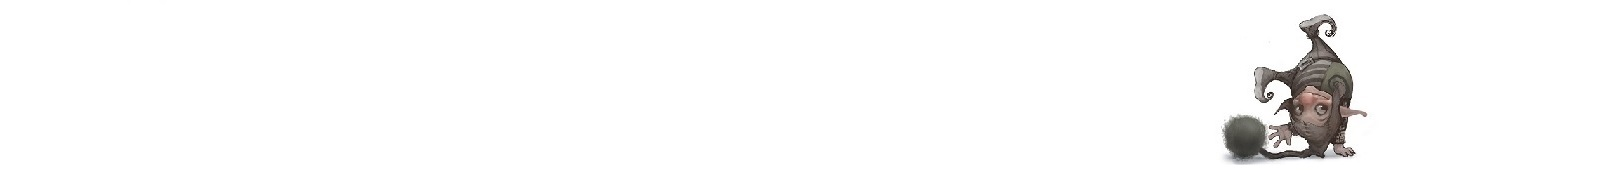
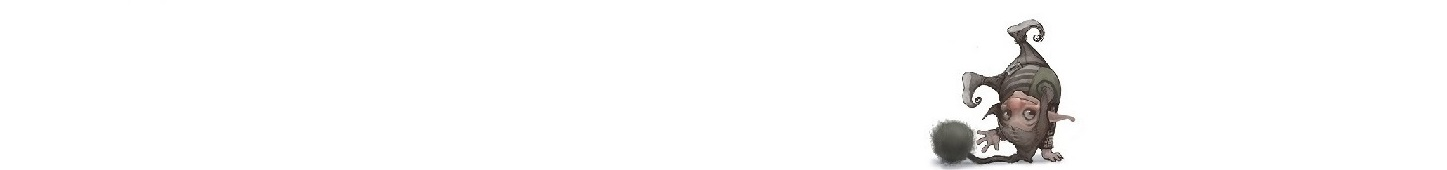
Add media queries for the contact section

Changed region(s): [[0.622, 0.0882, 0.8708, 1.0]]

diff --git a/assets/css/style.css b/assets/css/style.css
@@ -23,9 +23,8 @@ body{
     font-size: 25px;
     font-family: 'Oswald', sans-serif;
     background-image: url("../images/vasen.jpeg");
-    background-size: 30%;
-   background-repeat: no-repeat;
-  
+    background-size: 40%;
+    background-repeat: no-repeat;   
 }
 
 
@@ -69,7 +68,7 @@ body{
           background-image: url("/assets/images/ww1.jpeg");
           background-size: cover;
           background-position: center;
-          height: 1200px;
+          height: 950px;
           max-width: 100%;
          
           
@@ -87,13 +86,13 @@ body{
               transform: scale(0.8);
           }
           to{
-              transform: scale(1.0pyt);
+              transform: scale(1.0);
           }
           
       }
       #welcome h1 {
         text-align: center;
-        padding-top: 150px;
+        padding-top: 120px;
         font-size: 300%;
         color: white;
         
@@ -113,7 +112,7 @@ body{
 #books div {
   color: #A43F2D;
   text-align: center;
-  padding: 5%;
+  padding: 0;
 }
 
 
@@ -150,6 +149,7 @@ body{
     padding-top: 0;
     display: flex;
     justify-content: space-around;
+    padding-bottom: 60px;
  }
 
  #left-about{
@@ -173,7 +173,7 @@ body{
  }
 
  .right-about-text, .center-about-text{
-    margin-top: 80px;
+    margin-top: 120px;
     width: 80%;
     /*float: left;*/
     line-height: 20px;
@@ -238,7 +238,7 @@ body{
     padding: 0 10%;
     font-size: 100%;
   }
-  
+
   footer > p {
   
     font-size: 50%;
@@ -293,7 +293,7 @@ body{
   /* contact form*/
  
  .contact-form {
-  margin: 150px 10% 0 0px;
+  margin: 10% 10% 0 0px;
   color: #fff;
   background-color: rgba(60, 60, 60, 0.6);
   max-width: 400px;
@@ -341,6 +341,7 @@ body{
   background-color: rgba(60, 60, 60, 0.1);
   margin-top: 10px;
   border: 1px solid white;
+  width: 100%;
 }
 
 
@@ -355,8 +356,8 @@ border-radius: 7px;
 }
 
 
-/* For screens sizes from 1024px wide and down */
-@media screen and (max-width: 1024px){
+/* For screens sizes from 1200px wide and down */
+@media screen and (max-width: 1200px){
   .header-background{
     background-image: none;     
 }
@@ -366,8 +367,8 @@ border-radius: 7px;
 }
 
 #welcome h1 {
-  padding-top: 60px;
-  font-size: 100%;
+  font-size: 120%;
+  padding-top: 60px; 
 }
 
 .header-background{
@@ -387,11 +388,26 @@ padding: 0 60px 0 60px;
 /* For screens sizes from 950px wide and down */
 @media screen and (max-width: 950px){
 
+  #welcome{
+    height: 500px;
+  }
+
+  #welcome h1 {
+    font-size: 100%;
+    padding-top: 50px; 
+  }
+
   
   #books{
     flex-direction: column;
     align-items: center;
     justify-content: center;
+    text-align: center;
+
+    }
+
+    #books div{
+      padding: 2%;
     }
 
     .lyktgubben, .bestar, .vasenivartid{
@@ -401,6 +417,9 @@ padding: 0 60px 0 60px;
   #about{
   flex-direction: column;
   margin: 1%;
+  justify-content: center;
+  align-items: center;
+  padding: 0;
   }
   
   #center-about, #right-about{  
@@ -411,10 +430,13 @@ padding: 0 60px 0 60px;
 
  #left-about{
   width: 100%;
+  margin-bottom: 5%;
  }
 
  .left-about-text, .center-about-text, .right-about-text{
   text-align: center;
+  margin: 0;
+  padding: 0;
  }
 
   #circle-containe{
@@ -443,9 +465,21 @@ nav li {
 padding: 0 20px 0 20px;
 }
 
+#books h4{
+  padding-top: 0;
+}
+
 #photo{
   column-count: 1;
 }
+
+.contact-form{
+  width: 70%;
+}
+
+
+
+
 
 footer > a{
   padding: 0 8%;
@@ -474,6 +508,7 @@ footer > a{
     padding: 0 5%;
   }
 
+
   }
 
 
@@ -482,7 +517,7 @@ footer > a{
   /* For screens sizes from 380 wide and down */
 @media screen and (max-width: 380px){
   #welcome{
-    height: 200x;
+    height: 200px;
   }
   
    

diff --git a/index.html b/index.html
@@ -46,7 +46,7 @@
     
     <div class="lyktgubben">
         <img src="./assets/images/lyktgubben.jpeg"> 
-        <h4>Lyktgubben, skogsfrun och andra väsen</h4>   
+        <h4>Lyktgubben, skogsfrun och <br> och andra väsen</h4>   
     </div>
 
     <div class="bestar">
@@ -81,13 +81,13 @@
 
     <div id="center-about">
         <div class="center-about-text">
-            <h4>Tor Jäger is a freelance illustrator based in Stockholm. He has studied graphic design at the Mid Sweden University and Informative Illustration at Mälardalen University. He has long experience of varius illustration jobs for clients including the Swedish Energy Agency, Wahlströms förlag, Opal förlag and Berghs förlag. </h4>
+            <h4>Tor Jäger is a freelance illustrator based in Stockholm. He has studied graphic design at the Mid Sweden University and Informative Illustration at Mälardalen University. He has long experience of varius illustration jobs for clients including the Swedish Energy </h4>
             </div>
     </div>
 
     <div id="right-about">
         <div class="right-about-text">
-            <h4>He has done several book cover illustrations and written and illustrated three books for children and young adults together with his brother Jan Jäger.</h4>
+            <h4>Agency, Wahlströms publishing house, Opal publishing house and Berghs publishing house. He has done several book cover illustrations and written and illustrated three books for children and young adults together with his brother Jan Jäger.</h4>
             </div>
     
     </div>
@@ -103,6 +103,7 @@
             <a href="https://sv-se.facebook.com/vasenboken/" target="_blank" rel="noopener" aria-label="Find us on Facebook (link opens in a new tab)"><i class="fab fa-facebook"></i></a>
             <a href="https://www.instagram.com/torjager/" target="_blank" rel="noopener" aria-label="Find us on Instagram (link opens in a new tab)"><i class="fab fa-instagram"></i></a>
             <a href="https://se.linkedin.com/in/tor-j%C3%A4ger-81718170" target="_blank" rel="noopener" aria-label="Find us on Linkedin (link opens in a new tab)"><i class="fab fa-linkedin"></i></a>
+            <h4>+46 734237879 <i class="fas fa-phone"></i></h4>
             <br>
             <p>Copyright © Tor Jäger Illustration 2022</p>
         

diff --git a/gallery.html b/gallery.html
@@ -26,7 +26,7 @@
             <ul>
                 <li><a href="index.html" aria-label="Go to the top of the homepage">Home</a></li>
                 <li><a href="gallery.html" aria-label="Go to the Gallery section">Gallery</a></li>
-                <li><a href="#about" aria-label="Go to the About section">About</a></li>
+                <li><a href="index.html#about" aria-label="Go to the About section">About</a></li>
                 <li><a href="contact.html" aria-label="Go to the contact form">Contact</a></li>
             </ul>
         </nav>

diff --git a/contact.html b/contact.html
@@ -26,7 +26,7 @@
         <ul>
             <li><a href="index.html" aria-label="Go to the top of the homepage">Home</a></li>
             <li><a href="gallery.html" aria-label="Go to the Gallery section">Gallery</a></li>
-            <li><a href="#about" aria-label="Go to the About section">About</a></li>
+            <li><a href="index.html#about" aria-label="Go to the About section">About</a></li>
             <li><a href="contact.html" aria-label="Go to the contact form">Contact</a></li>
         </ul>
     </nav>

diff --git a/README.md b/README.md
@@ -1,108 +1,65 @@
-![CI logo](https://codeinstitute.s3.amazonaws.com/fullstack/ci_logo_small.png)
+![CI logo](./assets/images/ww1.jpeg)
 
-Welcome Karasp1980,
+Welcome to Tor Jäger Illustration,
 
-This is the Code Institute student template for Gitpod. We have preinstalled all of the tools you need to get started. It's perfectly ok to use this template as the basis for your project submissions.
+This site is created for the freelance illustrator Tor Jäger. The previous website torjager.se really needed some updates and a new fresh apporoach. Tor Jäger is based in Stockholm, Sweden, but clients could come from over the world so the site should be easy to read and inspiering. The goal of this site is to attract and connect with possible customers for illustration jobs, inspire people to read the books but also just inspire peolple scrolling through the site.
 
-You can safely delete this README.md file, or change it for your own project. Please do read it at least once, though! It contains some important information about Gitpod and the extensions we use. Some of this information has been updated since the video content was created. The last update to this file was: **September 1, 2021**
-
-## Gitpod Reminders
-
-To run a frontend (HTML, CSS, Javascript only) application in Gitpod, in the terminal, type:
-
-`python3 -m http.server`
-
-A blue button should appear to click: _Make Public_,
-
-Another blue button should appear to click: _Open Browser_.
-
-To run a backend Python file, type `python3 app.py`, if your Python file is named `app.py` of course.
-
-A blue button should appear to click: _Make Public_,
-
-Another blue button should appear to click: _Open Browser_.
-
-In Gitpod you have superuser security privileges by default. Therefore you do not need to use the `sudo` (superuser do) command in the bash terminal in any of the lessons.
-
-To log into the Heroku toolbelt CLI:
-
-1. Log in to your Heroku account and go to *Account Settings* in the menu under your avatar.
-2. Scroll down to the *API Key* and click *Reveal*
-3. Copy the key
-4. In Gitpod, from the terminal, run `heroku_config`
-5. Paste in your API key when asked
-
-You can now use the `heroku` CLI program - try running `heroku apps` to confirm it works. This API key is unique and private to you so do not share it. If you accidentally make it public then you can create a new one with _Regenerate API Key_.
+------
+responsive
 
 ------
 
-## Release History
+Features
+-------
+Testing
 
-We continually tweak and adjust this template to help give you the best experience. Here is the version history:
+I tested that the site worked in different browsers: Google Chrome, Firefox
 
-**September 1 2021:** Remove `PGHOSTADDR` environment variable.
+I confirmed that this project is responsive, looks good and functions on all standard screen sizes using the devtools device toolbar.
 
-**July 19 2021:** Remove `font_fix` script now that the terminal font issue is fixed.
+I confirmed that the navigaton, header, about, gallery and contact are all readable and easy to understand.
 
-**July 2 2021:** Remove extensions that are not available in Open VSX.
+I confirmed that the form works requires entries in every field, will only accept one email in the email field and the submit buttom works.
 
-**June 30 2021:** Combined the P4 and P5 templates into one file, added the uptime script. See the FAQ at the end of this file.
+-------
 
-**June 10 2021:** Added: `font_fix` script and alias to fix the Terminal font issue
-
-**May 10 2021:** Added `heroku_config` script to allow Heroku API key to be stored as an environment variable.
-
-**April 7 2021:** Upgraded the template for VS Code instead of Theia.
-
-**October 21 2020:** Versions of the HTMLHint, Prettier, Bootstrap4 CDN and Auto Close extensions updated. The Python extension needs to stay the same version for now.
-
-**October 08 2020:** Additional large Gitpod files (`core.mongo*` and `core.python*`) are now hidden in the Explorer, and have been added to the `.gitignore` by default.
-
-**September 22 2020:** Gitpod occasionally creates large `core.Microsoft` files. These are now hidden in the Explorer. A `.gitignore` file has been created to make sure these files will not be committed, along with other common files.
-
-**April 16 2020:** The template now automatically installs MySQL instead of relying on the Gitpod MySQL image. The message about a Python linter not being installed has been dealt with, and the set-up files are now hidden in the Gitpod file explorer.
-
-**April 13 2020:** Added the _Prettier_ code beautifier extension instead of the code formatter built-in to Gitpod.
-
-**February 2020:** The initialisation files now _do not_ auto-delete. They will remain in your project. You can safely ignore them. They just make sure that your workspace is configured correctly each time you open it. It will also prevent the Gitpod configuration popup from appearing.
-
-**December 2019:** Added Eventyret's Bootstrap 4 extension. Type `!bscdn` in a HTML file to add the Bootstrap boilerplate. Check out the <a href="https://github.com/Eventyret/vscode-bcdn" target="_blank">README.md file at the official repo</a> for more options.
+Bugs
 
 ------
 
-## FAQ about the uptime script
+Validator testing
 
-**Why have you added this script?**
+HTML:
+No errors were returned when passed through the official W3C validator.
+CSS:
 
-It will help us to calculate how many running workspaces there are at any one time, which greatly helps us with cost and capacity planning. It will help us decide on the future direction of our cloud-based IDE strategy.
+Accessability:
+I confirmed that the colors and fonts chosen are easy to read and accesible through lighthouse in devtools.
 
-**How will this affect me?**
+-----
 
-For everyday usage of Gitpod, it doesn’t have any effect at all. The script only captures the following data:
+Unfixed bugs
 
-- An ID that is randomly generated each time the workspace is started.
-- The current date and time
-- The workspace status of “started” or “running”, which is sent every 5 minutes.
+No unfixed bugs.
+-----
 
-It is not possible for us or anyone else to trace the random ID back to an individual, and no personal data is being captured. It will not slow down the workspace or affect your work.
+Deployment
 
-**So….?**
+This site was deployed to Github pages. The steps to deploy are as follows:
+* In the Github respiratories, navigate to the settings tab. 
+* From the source section drop-down menu, select the Master branch.
+* Once the master branch has been selected, the page provided the link to the completed website. 
+The link can be found here:
 
-We want to tell you this so that we are being completely transparent about the data we collect and what we do with it.
+-----
 
-**Can I opt out?**
+Credits
 
-Yes, you can. Since no personally identifiable information is being captured, we'd appreciate it if you let the script run; however if you are unhappy with the idea, simply run the following commands from the terminal window after creating the workspace, and this will remove the uptime script:
+A lot of content is reused from torjager.se, for instance som pictures and the about-text. Furhter material/pictures has been provided from the illustrator himself who has also given his appproval of using the material for this project. Some of the pictures are also published in his books.
+Inspiration has also come from the Code Institute projects Coders coffeehouse (https://learn.codeinstitute.net/sandbox/api/challenges/60338cca9c4983ac5d855130/files/index.html#home) and Love Running
 
-```
-pkill uptime.sh
-rm .vscode/uptime.sh
-```
+Content
 
-**Anything more?**
+The pictures on the site and in the gallery has been chosen in order to provide a variety of styles.
 
-Yes! We'd strongly encourage you to look at the source code of the `uptime.sh` file so that you know what it's doing. As future software developers, it will be great practice to see how these shell scripts work.
-
----
-
-Happy coding!
+Media
